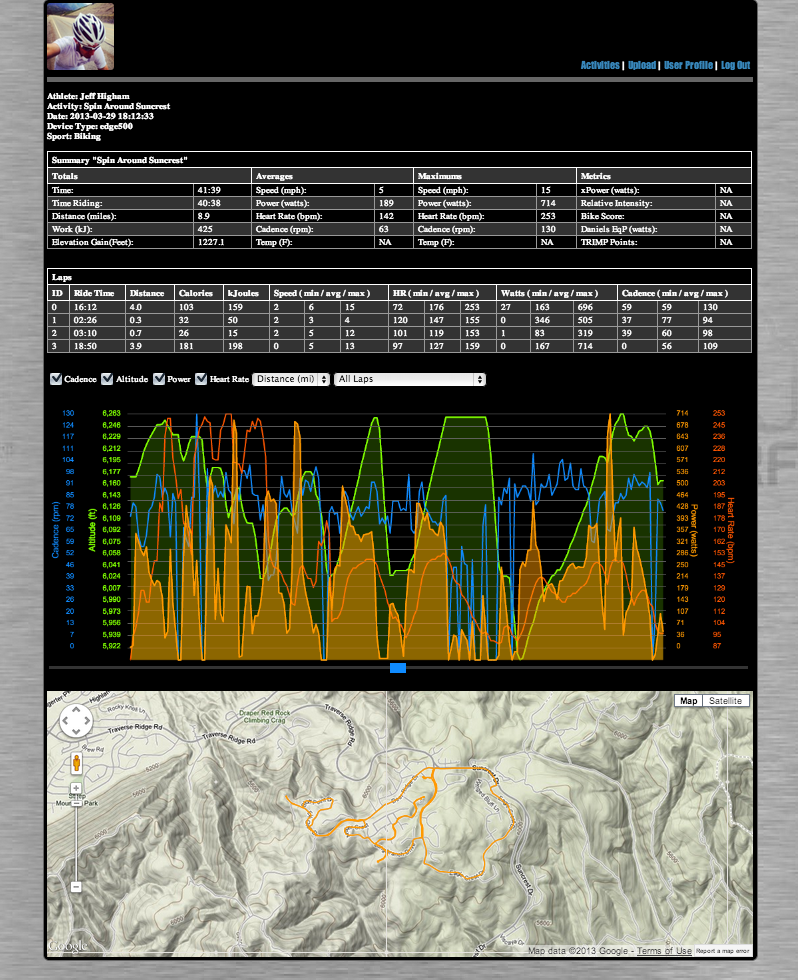
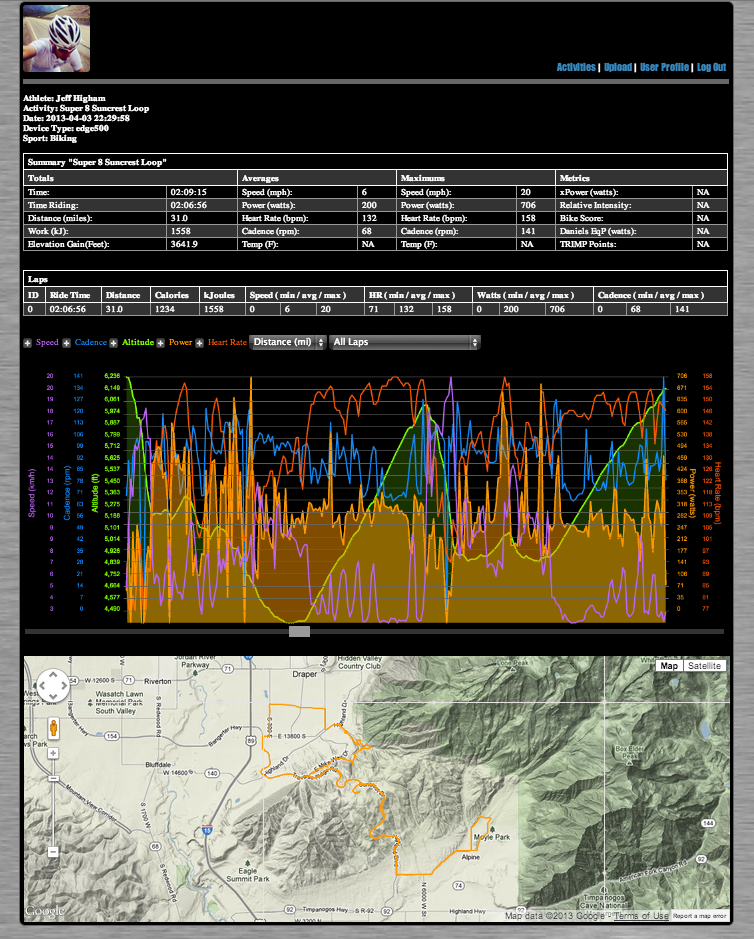
Added speed to graphs, css, html changes.

diff --git a/app/assets/stylesheets/application.css b/app/assets/stylesheets/application.css
@@ -153,17 +153,41 @@ th:only-child{
 input[type='range'] {
     -webkit-appearance: none !important;
     background:#333;
-    height:5px;
+    height:8px;
     width: 1050px;
     display: block;
 }
 input[type='range']::-webkit-slider-thumb {
     -webkit-appearance: none !important;
-    background:#0f8bff;
+    /* background:#0f8bff; */
+    background: #999;
     height:16px;
-    width:24px;
+    width:32px;
     display:block;
 }
+
+input[type=checkbox].css-checkbox {
+display:none;
+}
+
+input[type=checkbox].css-checkbox + label.css-label {
+padding-left:20px;
+height:15px; 
+display:inline-block;
+line-height:15px;
+background-repeat:no-repeat;
+background-position: 0 0;
+/*font-size:15px; */
+vertical-align:middle;
+cursor:pointer;
+}
+
+input[type=checkbox].css-checkbox:checked + label.css-label {
+background-position: 0 -15px;
+}
+
+.css-label{ background-image:url(/dark-plus.png); }
+
 
 #all_ride_data {
 
@@ -196,5 +220,12 @@ input[type='range']::-webkit-slider-thumb {
     -webkit-border-radius: 10px;
     -khtml-border-radius: 10px;
     border-radius: 10px;
+}
+
+select {
+
+    border: 0;
+    background: #333;
+    color: #FFF;
 }
 

diff --git a/app/assets/javascripts/THQ/thq.common.js b/app/assets/javascripts/THQ/thq.common.js
@@ -1,11 +1,13 @@
 // Common Config
-var gutterLeft = 120;
-var gutterRight = 120;
+var gutterLeft = 150;
+var gutterRight = 80;
 var gutterTop   = 25;
 var power_color = "#FF9900";
 var hr_color = "#ff5600";
 var alt_color = "#7fff00";
 var cadence_color = "#0f8bff";
+var speed_color = "#bc65f7";
+
 
 
 // Supporting functions for 
@@ -50,7 +52,7 @@ function drawLinePlot(params){
     var yaxis = new RGraph.Drawing.YAxis(params['element_id'], params['axis_x']);
     yaxis.Set('chart.colors', params['axis_color'] );
     yaxis.Set('chart.text.color', params['axis_text_color']);
-    yaxis.Set('chart.text.size', 8);
+    yaxis.Set('chart.text.size', 7);
     yaxis.Set('chart.max', params['ymax']);
     yaxis.Set('chart.min', params['ymin']);
     yaxis.Set('chart.numlabels',20);

diff --git a/app/models/activity.rb b/app/models/activity.rb
@@ -51,7 +51,10 @@ class Activity < ActiveRecord::Base
     speed_kmph_to_mph(self.avg_speed)
   end
 
-  def raw_numbers
+  def javascript_data
+
+    # creates datastructures to use for maps and graphs.
+
     power_numbers_time = []
     power_numbers_distance = []
 
@@ -64,17 +67,31 @@ class Activity < ActiveRecord::Base
     altitude_numbers_time = []
     altitude_numbers_distance = []
 
+    speed_numbers_time = []
+    speed_numbers_distance = []
+
+    distance_numbers = []
+    time_numbers = []
+
+    laps_time = []
+    laps_distance = []
+
     lap_numbers_time = []
-    #json = []
-    #points = []
+    lap_numbers_distance = []
+
     last_trackpoint_distance = 0;
+
     self.laps.each do |lap|
+
       lap.trackpoints.each do |trackpoint|
         # Time-based numbers, record every trackpoint.
         power_numbers_time << trackpoint.watts
         heart_rate_numbers_time << trackpoint.heart_rate
         cadence_numbers_time << trackpoint.cadence
         altitude_numbers_time << trackpoint.altitude_feet
+        speed_numbers_time << trackpoint.speed.to_f
+        distance_numbers << trackpoint.distance
+        time_numbers << trackpoint.time
 
         # Distance-based numbers, record only if moving.
         if (trackpoint.distance - last_trackpoint_distance) > 0
@@ -82,21 +99,38 @@ class Activity < ActiveRecord::Base
           heart_rate_numbers_distance << trackpoint.heart_rate
           cadence_numbers_distance << trackpoint.cadence
           altitude_numbers_distance << trackpoint.altitude_feet
+          speed_numbers_distance << trackpoint.speed.to_f
           last_trackpoint_distance = trackpoint.distance
         end
-
-     #   unless  trackpoint.longitude === 0 or trackpoint.latitude === 0
-     #    points  << { lng: trackpoint.longitude,lat: trackpoint.latitude }
-     #   end
-
       end
-    end
+
       ( power_numbers_time = [0] && power_numbers_distance = [0] ) if power_numbers_time.max == 0
       ( cadence_numbers_time = [0] && cadence_numbers_distance = [0] ) if cadence_numbers_time.max == 0
       ( heart_rate_numbers_time = [0] && heart_rate_numbers_distance = [0] ) if heart_rate_numbers_time.max == 0
       ( altitude_numbers_time = [0] && altitude_numbers_distance = [0] ) if altitude_numbers_time.max == 0
-    #  json << points
+      ( speed_numbers_time = [0] && speed_numbers_distance = [0] ) if speed_numbers_time.max == 0
 
+
+      lap_numbers_time << {
+        :power_numbers_time => power_numbers_time,
+        :heart_rate_numbers_time => heart_rate_numbers_time,
+        :cadence_numbers_time => cadence_numbers_time,
+        :altitude_numbers_time => altitude_numbers_time,
+        :speed_numbers_time => speed_numbers_time,
+        :time => time_numbers
+      }
+
+      lap_numbers_distance << {
+        :power_numbers_distance => power_numbers_distance,
+        :heart_rate_numbers_distance => heart_rate_numbers_distance,
+        :cadence_numbers_distance => cadence_numbers_distance,
+        :altitude_numbers_distance => altitude_numbers_distance,
+        :speed_numbers_distance => speed_numbers_distance,
+        :distance => distance_numbers
+      }
+
+    end
+    
      {
       :power_numbers_time => power_numbers_time,
       :power_numbers_distance => power_numbers_distance,
@@ -105,8 +139,11 @@ class Activity < ActiveRecord::Base
       :cadence_numbers_time => cadence_numbers_time,
       :cadence_numbers_distance => cadence_numbers_distance,
       :altitude_numbers_time => altitude_numbers_time,
-      :altitude_numbers_distance => altitude_numbers_distance
-   #   :map_data => json.to_json
+      :altitude_numbers_distance => altitude_numbers_distance,
+      :speed_numbers_time => speed_numbers_time,
+      :speed_numbers_distance => speed_numbers_distance,
+      :lap_numbers_time => lap_numbers_time,
+      :lap_numbers_distance => lap_numbers_distance
     }
 
   end

diff --git a/app/controllers/activities_controller.rb b/app/controllers/activities_controller.rb
@@ -35,7 +35,7 @@ class ActivitiesController < ApplicationController
 
   def show
     @activity = Activity.find(params[:id])
-    @raw_numbers = @activity.raw_numbers
+    @javascript_data = @activity.javascript_data
 
     respond_to do |format|
       format.html # show.html.erb
@@ -59,7 +59,7 @@ class ActivitiesController < ApplicationController
 
   def graph_data
     @activity = Activity.find(params[:id])
-    @raw_numbers = @activity.raw_numbers
+    @javascript_data = @activity.javascript_data
     respond_to do |format|
       format.js
     end
